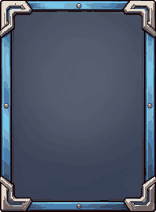
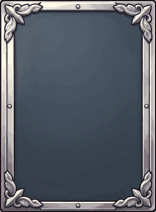
world2 v3.12.0: 필드 카드 재배치 (이름 미리 보기, 자물쇠 아래로, 아이콘 줄 삭제)

Changed region(s): [[0.0, 0.0, 1.0, 1.0]]

diff --git a/game-card-world2/index.html b/game-card-world2/index.html
@@ -136,7 +136,8 @@
   .tabbtn .lockm{margin-right:3px;}
   .tabbtn .tabic{width:1.35em;height:1.35em;margin-right:3px;vertical-align:-.35em;}   /* v0.33.0: 탭 그림 */
   .gather-row{display:grid;grid-template-columns:repeat(4, 1fr);gap:calc(var(--cw) * .1);width:100%;}   /* v0.17.0: 네 칸 한 줄 고정 */
-  .gather .cw.field{position:relative;width:100%;height:auto;aspect-ratio:1 / 1.36;cursor:pointer;--cf:calc(var(--cw) / .7 * .8 * 1.35);}
+  .gather .cw.field{position:relative;width:100%;height:auto;aspect-ratio:1 / 1.36;cursor:pointer;--cf:calc(var(--cw) / .7 * .8 * 1.35);
+    display:flex;flex-direction:column;align-items:center;justify-content:flex-start;padding-top:calc(var(--cw) * .1);gap:calc(var(--cw) * .04);}
   .gather .cw.field .emoji{font-size:calc(var(--cw) * 1.35 * .42);}
   .gather .cw.field .yields{display:flex;gap:2px;justify-content:center;font-size:calc(var(--cw) * .2);margin-top:2px;pointer-events:none;}
   /* v0.18.3: 두 번째 줄 — 크리처 전리품 */
@@ -227,7 +228,12 @@
   .nbadge[hidden]{display:none;}
   /* v0.9.0: 잠긴 필드 — 어둡게 + 자물쇠 */
   .gather .cw.field.field-locked{cursor:default;}
-  .gather .cw.field.field-locked > :not(.lock):not(.lockneed){filter:brightness(.3) saturate(.15);}
+  .gather .cw.field.field-locked > :not(.lockbox):not(.name){filter:brightness(.3) saturate(.15);}   /* v3.12.0: 이름은 또렷하게 */
+  .gather .cw.field.field-locked .name{opacity:.85;}
+  .gather .cw.field .lockbox{position:absolute;left:0;right:0;bottom:calc(var(--cw) * .06);z-index:5;
+    display:flex;flex-direction:column;align-items:center;gap:2px;pointer-events:none;}
+  .gather .cw.field .lockbox .lock{width:calc(var(--cw) * .3);height:auto;position:static;transform:none;}
+  .gather .cw.field .lockbox .lockneed{position:static;transform:none;font-size:calc(var(--cf) * .08);}
   .gather .cw.field .lock{position:absolute;left:50%;top:40%;width:46%;transform:translate(-50%,-50%);image-rendering:pixelated;pointer-events:none;z-index:4;filter:drop-shadow(0 2px 3px rgba(0,0,0,.7));}   /* v0.9.1: 어둡게 한 형제(필터)보다 위로 */
   /* v0.10.0: 갓 — 채집 화면 위쪽 캐릭터 카드 + 오른쪽 말풍선 */
   /* 기사 줄 · 원정 트랙 (v0.13.0) */
@@ -1124,7 +1130,7 @@ const pick = arr => arr[Math.floor(Math.random() * arr.length)];
 const esc = s => String(s).replace(/[&<>"]/g, ch => ({ '&':'&amp;', '<':'&lt;', '>':'&gt;', '"':'&quot;' }[ch]));
 
 // ── 크래프팅 탭 (world2 v0.1.0) ───────────────────────
-const VERSION = 'v3.11.0';
+const VERSION = 'v3.12.0';
 const SAVE_KEY = 'card-world2.v1';                              // 레거시(card-world-rpg.v1)와 따로
 // 크래프팅 탭에 올라오는 카드 = 단계가 있는 카드 (v0.3.0: 1단계 12장)
 const craftable = t => !!DEFS[t] && !!DEFS[t].step;
@@ -2914,16 +2920,15 @@ function screenRows(){
   }
   if (S.tab === 'battle'){
     return FIELDS.filter(f => f.id !== 'prelude' || !(S.cleared || []).includes('prelude')).map(f => {   // v3.1.0: 튜토리얼이 끝나면 들머리는 사라짐
-      const locked = fieldLocked(f.id), ys = yieldsOf(f.id);
+      // v3.12.0: 필드 카드 = 그림 + 이름(위). 나오는 것 아이콘은 뺌(인스펙터에서 본다).
+      //   잠긴 곳도 **이름은 보이고**, 자물쇠와 여는 조건은 카드 아래쪽에
+      const locked = fieldLocked(f.id);
       const card = `<div class="cw framed f-stone field${fieldPick === f.id ? ' sel' : ''}${locked ? ' field-locked' : ''}" data-field="${f.id}">`
-        + (locked ? '<img class="lock" src="images/icon/ui_lock.png" alt="잠김" draggable="false">'
-          + `<b class="lockneed">${esc(fieldNeed(f.id))}</b>` : '')     // v0.98.0: 자물쇠 위에 조건
-        + (goalNeedsAt(f.id).length && !locked ? `<div class="fneed">⭐ ${goalNeedsAt(f.id).length}</div>` : '')   // v3.0.2
         + `<div class="emoji">${fieldIcon(f)}</div><div class="name">${f.name}</div>`
-        + `<div class="yields">${ys.map(t => `<span class="${S.seen.includes(t) ? '' : 'locked'}">${iconHtml(t, true)}</span>`).join('')}</div>`
-        + (lootTypes(f.id).length
-          ? `<div class="yields loot">${lootTypes(f.id).map(t => `<span class="${lootKnown(f.id, t) ? '' : 'locked'}">${iconHtml(t, true)}</span>`).join('')}</div>`
-          : '') + '</div>';
+        + (locked ? '<div class="lockbox"><img class="lock" src="images/icon/ui_lock.png" alt="잠김" draggable="false">'
+          + `<b class="lockneed">${esc(fieldNeed(f.id))}</b></div>` : '')
+        + (goalNeedsAt(f.id).length && !locked ? `<div class="fneed">⭐ ${goalNeedsAt(f.id).length}</div>` : '')   // v3.0.2
+        + '</div>';
       const slots = PARTY.map((open, i) => ({
         id: `${f.id}:${i}`, open: open && !locked,                // v0.35.0: 잠긴 필드는 출전 칸도 잠김
         card: open && exp && exp.id === f.id && i === 0,

diff --git a/game-card-world2/docs/시나리오.md b/game-card-world2/docs/시나리오.md
@@ -1,0 +1,31 @@
+# 시나리오 — 카드 월드 RPG 2
+
+> 이야기 설정·복선 메모. 구현 규칙이 아니라 **앞으로 연출을 짤 때 참고**하는 곳.
+> 연출 아이디어는 확정 전까지 "후보"로만 적는다.
+
+## 프레임 등급 = 인물의 격 (2026-09-27)
+
+- **기사만 금테**(`frame_gold`). 이건 **복선**이다 — 기사가 특별한 존재라는 암시.
+- 이후 새로 나오는 캐릭터들은 **동테**(`frame_bronze`).
+
+### 캐릭터 등급 셋 (2026-09-27)
+캐릭터는 **브론즈 · 실버 · 골드** 세 등급. 등급마다 테두리가 다름. 각 등급이 무엇을 뜻하는지는 **아직 설정 없음**.
+
+| 등급 | 테두리 | 지금 누가 |
+|---|---|---|
+| 골드 | `frame_gold` | 기사 (복선) |
+| 실버 | `frame_silver` | 아직 없음 |
+| 브론즈 | `frame_bronze` | 이후 나오는 캐릭터 대부분 |
+
+- 등급 이름으로 "티어"는 쓰지 않는다 — 티어는 무기 등급 전용 (v3.10.2). 캐릭터는 **등급**.
+- 그림: `images/frame/frame_gold.png` · `frame_silver.png` · `frame_bronze.png` 는 같은 seed 로 뽑아 **모양이 같고 색만 다름** → 테두리 색 하나로 격을 읽게 됨.
+
+### 지켜야 할 것
+- 플레이어에게 금테의 의미를 **설명하지 않는다**. 동테 캐릭터가 늘어날수록 "왜 기사만 금색?"이 스스로 떠오르게.
+- 동테 캐릭터를 금테로 올려 주는 일은 **하지 않는다** (복선이 흐려짐). 바꾼다면 이야기 사건으로만.
+
+### 연출 후보 (미확정)
+- 동테 동료가 처음 합류할 때 기사 카드 옆에 나란히 — 색 차이가 한눈에 보이게.
+- 동료 대사로 슬쩍 건드리기 (예: 기사 카드 테두리를 두고 한마디).
+- 복선을 거둘 때: 금테가 잠깐 벗겨지며 다른 색이 드러남 / 동테 전원이 한순간 금빛으로 번쩍 / 기사 금테에 금이 감 — 이야기 방향에 따라 고름.
+- 실버 등급 첫 캐릭터는 "금에 가까운 자" 또는 "금테를 잃은 자"로 쓸 수 있음.

diff --git a/game-card-world2/docs/기능.md b/game-card-world2/docs/기능.md
@@ -4,6 +4,7 @@
 > `game-card-world`(v0.147.1)는 **레거시** — 더 고치지 않는다. 2는 그 설정·조합식·그림·카드 모양을 복사해 새로 시작한다.
 > 구현된 규칙 정리: `게임_규칙.md` · `카드_목록.md` · `조합식.md` · `아이콘_목록.md` (구현된 것만 적음)
 > 화면 배치: `화면_구조.md`
+> 이야기·복선 메모: `시나리오.md` (연출 제안할 때 먼저 읽기)
 > 구현은 했지만 **플레이 검증 전**이라 체크하지 않았다. 플레이로 확인한 항목부터 체크한다.
 
 ## 0. 방향 (v0.1.0)
@@ -2283,3 +2284,11 @@
 - [x] `tools/check.mjs` 에 **단계 규칙 검사** 추가 — 어기면 오류
 - [x] 콜렉터북 '카드' 탭이 3단계 위로도 단계별 구역을 자동으로 만듦
 - 판단: 3단계에서 모든 완성품이 나올 필요 없음. 계열(날붙이 · 자루 · 방패 · 장신구)마다 단계가 이어짐
+
+## 253. 필드 카드 재배치 (v3.12.0)
+
+- [x] **다음 필드 이름을 미리 보여 줌** — 잠겨 있어도 이름은 또렷하게 (그림만 어둡게)
+- [x] 자물쇠와 여는 조건을 카드 **아래쪽**으로 (`.lockbox`) — 전엔 가운데 덮고 있었음
+- [x] 필드 카드의 **나오는 것 아이콘 줄 삭제** (줍는 것 · 떨구는 것) — 자세한 건 카드를 탭해 인스펙터에서
+- [x] 카드 안 배치: 그림 → 이름 순으로 위쪽 정렬
+- 확인(브라우저): 들머리(열림) · 산 · 초원 · 숲 · 강가 모두 이름 보임, 잠긴 넷은 아래에 자물쇠 + "○○ 클리어"

diff --git a/game-card-world2/docs/아이콘_목록.md b/game-card-world2/docs/아이콘_목록.md
@@ -1292,3 +1292,21 @@ a white block of rendered fat on a wooden board
 a small clay flask of clear pale oil with a cork
 ```
 <!-- /icon -->
+
+<!-- icon:frame_silver -->
+### frame_silver — 은색
+- 파일: `images/frame/frame_silver.png`
+- 생성: 2026-09-27 · seed `3253344657115` · 옵션 기본
+```
+cool polished silver and pale steel metal border with carved leaf ornaments and small round studs, dark slate blue-grey leather center panel
+```
+<!-- /icon -->
+
+<!-- icon:frame_bronze -->
+### frame_bronze — 동색
+- 파일: `images/frame/frame_bronze.png`
+- 생성: 2026-09-27 · seed `3253344657115` · 옵션 기본
+```
+dark reddish copper bronze metal border with carved leaf ornaments and small round studs, aged patina brown bronze tone, dark reddish brown leather center panel
+```
+<!-- /icon -->
